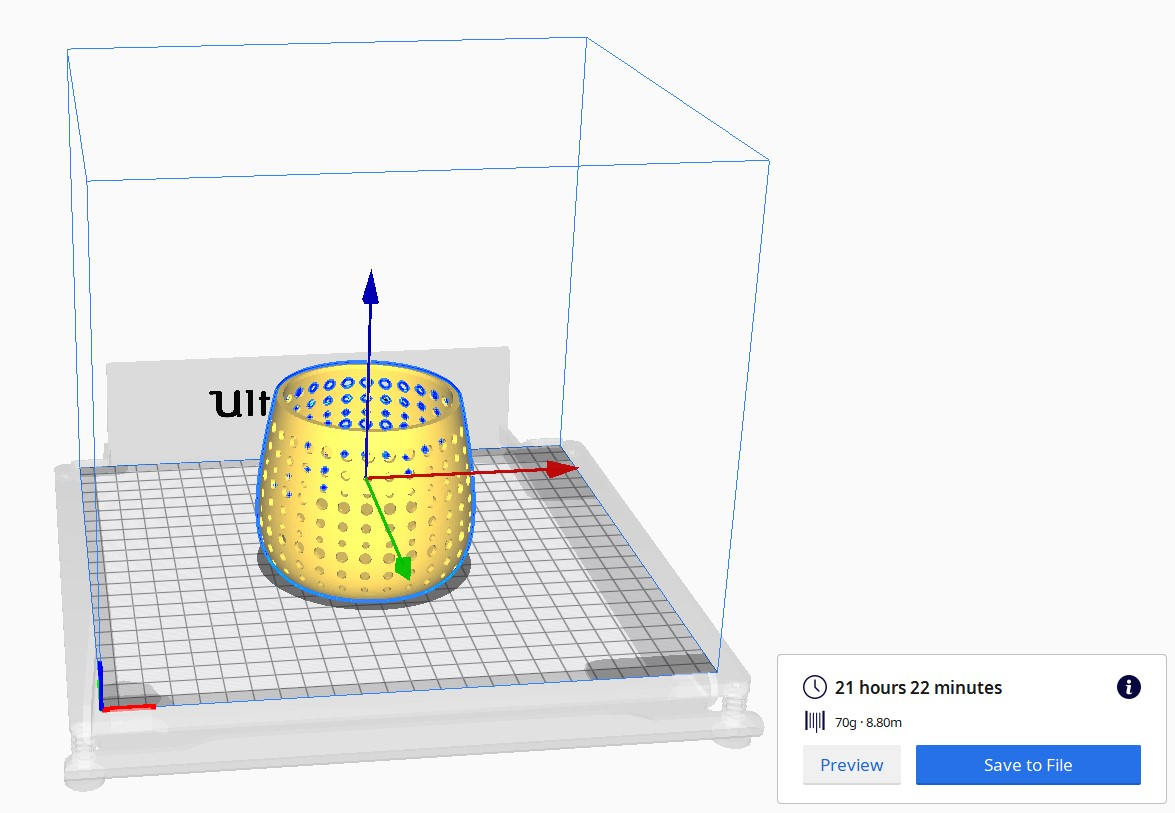
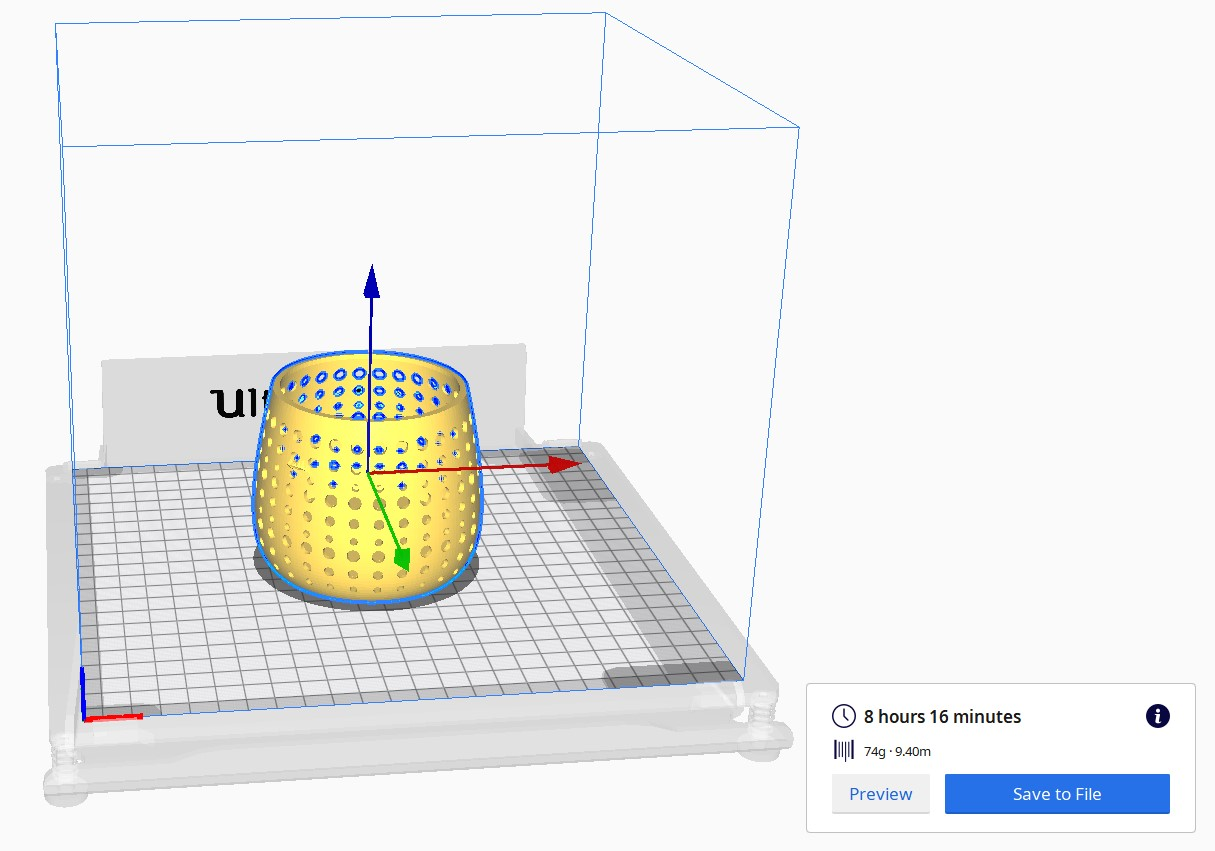
uppfært P1 og P2

diff --git a/EV3.html b/EV3.html
@@ -51,20 +51,22 @@
 							<p>
 							<section>
 								<p>
-                                    The project was two part, one was to design a parametric, pressfit model containing several units. The model has to be resizable, so the material thickness and sizes in the model can be changed using parametric variables. Description of this part can be found her below. The second part is a group project and the goal was to choose a laser cutter and calculates the kerf, this part can be accessed <a href="https://elisaosk.github.io/VefsidanMin/H1.html">here</a>
+                                    The project was two part, one was to design a object that could not be manufactured by subtraction and to 3d print this object. The material provided in the course is a maximum of 100g. As well as that I had to 3d scan an object of my choosing and document the process. Description of this part can be found her below. The second part is a group project and the goal was to test the limits of the 3d printer and make rules regarding its use, this part can be accessed <a href="Hópverkefni 2 (elisaosk.github.io)">here</a>
                                 </p>
 								<header>
 									<h3>Tools</h3>
 								</header>
 								<p>
-                                    For this project I decided to use Fusion 360 and Inkscape. I have previous experience with Fusion as well as Inventor, Autocad and Solidworks. But the deciding factor in this was the instructors recommendation of Fusion for this project. 
-                                </p>
-                                <p>
-                                    Inkscape is a free and open-source vector graphics editor used to create vector images, primarily in Scalable Vector Graphics (SVG) format. Other formats can be imported and exported. Inkscape can render primitive vector shapes (e.g. rectangles, ellipses, polygons, arcs, spirals, stars and 3D boxes) and text. 
+                                    For this project I decided to use Fusion 360, Cura and experimented with Meshmixer. I have previous experience with Fusion as well as Inventor, Autocad and Solidworks. I decided to use Fusion because in project 1 in this course I used Fusion and that went great.
                                 </p>
                                 <p>
                                     Fusion 360 is a cloud-based CAD/CAM tool for collaborative product development. Fusion 360 enables exploration and iteration on product ideas and collaboration within distributed product development team.
                                 </p>
+                                <p>
+                                    Cura is an open source slicing application for 3D printers. I chose this program because my brother recommended it. He has previous experience with 3d printing.
+                                </p>
+                                <p>
+                                    Meshmixer is a state-of-the-art software for working with triangle meshes. I used Meshmixer when i attempted to create an irregular pattern in my design. In the end I went another way but this program has many excellent features to create patterns.
                                 <p>
                                     
      							<header>
@@ -74,22 +76,132 @@
                                     <a href="https://www.autodesk.com/products/fusion-360/overview?term=1-YEAR&support=null" class="button circled scrolly">Fusion 360</a>
                                 </p>
                                 <p>
-                                    <a href="https://inkscape.org/" class="button circled scrolly">Inkscape</a>
+                                    <a href="https://ultimaker.com/software/ultimaker-cura" class="button circled scrolly">Cura</a>
+                                </p>
+                                <p>
+                                    <a href="https://www.meshmixer.com/download.html" class="button circled scrolly">Meshmixer</a>
                                 
                                 <header>
-									<h3>The design</h3>
+									<h3>Design</h3>
 								</header>
                                 <p>
-
+                                    I started by looking at projects from students that have finished this course as well as looking up things to 3d print online. In the end I decided to design and manufacture a small pencil case for my favourite pens. I have a large one that is always stuffed and sometimes I can’t find my favourite pen quickly. This will hopefully encourage me to stop hoarding pens. 
+                                </p>
+                                <p>
+                                    I looked for some ideas for the design online and decided to create a simple case with a pattern. I found the video <a href=" Layer by Layer - How To Make Voronoi Patterns in MeshMixer - YouTube "> Layer by Layer - How To Make Voronoi Patterns in Meshmixer </a> that shows how to use Meshmixer to create patterns on an object. I thought the pattern looked very nice and decided to use Meshmixer.
+                                </p>
+                                <p>
+                                    Now that I had a design in mind I had choose the size of the pensil case. I chose the radius of the bottom, wall height and thickness. Later I changed these parameters because of how long this would take to print. The original parameters can be seen in the picture here below:
+                                </p>
+                                <p>
+                                    <img src="images/v3_parameters1.jpg"> 
+                                </p>
+                                <p>
+                                    By drawing half of the vase and using the command Revolve I created the shape of the vase. The drawing can be seen here below:
+                                </p>
+                                <p>
+                                    <img src="images/v3_vasi_sketch.jpg"> 
+                                </p>
+                                <p>
+                                    And then after using Revolve:
+                                </p>
+                                <p>
+                                    <img src="images/v3_vasi_revolve.jpg"> 
+                                </p>
+                                <p>
+                                    The command Shell is used to hollow out the shape. I chose to have the wall thickness 3mm. To round out the edges of the pencil holder the command Fillet was used. 
+                                </p>
+                                <p>
+                                    <img src="images/v3_vasi_extrude.jpg"> 
+                                </p>
+                                <p>
+                                    To create the pattern in Meshmixer I exported the pencil holder in stl format and opened the file in Meshmixer. I made a couple of different versions of the pencil holder with different patterns, but I was never happy with the result. One example can be seen here below:
+                                </p>
+                                <p>
+                                    <img src="images/v3_vasi_meshmixer.jpg"> 
+                                </p>
+                                <p>
+                                    So I decided to make the pattern in Fusion and not irregular. I drew the pattern on the front plane.
+                                </p>
+                                <p>
+                                    <img src="images/v3_mynstur_sketch.jpg"> 
+                                </p>
+                                <p>
+                                    Then the command Extrude is used to cut from the pencil holder. These holes are then replicated around the middle axis using Circular pattern.
+                                </p>
+                                <p>
+                                    <img src="images/v3_mynstur.jpg">
+                                </p>
+                                <p>
+                                    I was very happy with this result and exported the file in stl format. This file can be opened in Cura and I chose the printer Ultimaker 3. This is the printer I will be using at Fablab. After slicing the object Cura showed that printing this object would take 8 hours and 16 minutes. 
+                                </p>
+                                <p>
+                                    <img src="images/v3_vasi_cura.jpg" width="550" height="400"> 
+                                </p>
+                                <p>
+                                    Because of this I decided to change the radius of the bottom and the wall height. The new parameters can be seen here below:
+                                </p>
+                                <p>
+                                    <img src="images/v3_parameters.jpg"> 
+                                </p>
+                                <p>
+                                    I also changed the shape of the curve and the new drawing can be seen here below:
+                                </p>
+                                <p>
+                                    <img src="images/v3_vasi_sketch1.jpg">
+                                </p>
+                                <p>
+                                    The final design is:
+                                </p>
+                                <p>
+                                    <img src="images/v3_loka.jpg">
+                                </p>
+                                <p>
+                                    Then the file is exported and opened in Cura. The printing will take 5 hours and 2 minutes
+                                </p>
+                                <p>
+                                    <img src="images/v3_vasi_cura1.jpg" width="550" height="400">
+                                </p>
+                        
 								<header>
 									<h3>Production</h3>
 								</header>
                                 <p>
+                                    I was using a 3d printer called Ultimaker 3. To start printing the pencil holder I opened the file in Cura and plugged a USB drive from the 3d printer in my computer. The option to move files to the USB drive appears and that is what I do. When the USB drive is plugged into the 3d printer you can choose to print the latest file by simply pressing enter.
+                                </p>
+                                <p>
+                                    The printer takes a couple of minutes to warm up and then starts printing.
+                                </p>
+                                <p>
+                                    <img src="images/v3_prenta.jpg" width="500" height="700">
+                                </p>
+                                
+								<header>
+									<h3>Result</h3>
+								</header>
+                                <p>
+                                    I was very happy with the result. Although the pencil holder was smaller than I thought it would be. But I think that is mostly because it looks a lot bigger in Fusion. But the size was suitable for its purpose.
+                                </p>
+                                <p>
+                                    <img src="images/v3_loka1.jpg" width="500" height="700">
+                                </p>
+                                <p>
+                                    <img src="images/v3_loka2.jpg" width="500" height="700">
+                                </p>
+                                <p>
                                     
+                                </p>
+                                <p>
+                                    
+                                </p>
+                                <p>
+                                    
+                                </p>
+                                <p>
                                     
 								<header>
 									<h3>Search engine keywords</h3>
-                                    HTML5, HTML5 up, Github, Git
+                                    3d printing ideas, 3d Printed vase, 3d printing patterns, Meshmixer, Meshmixer patterns, Fusion shell
 								</header>
 								<p>
 

diff --git a/EV2.html b/EV2.html
@@ -48,13 +48,13 @@
 					<div class="container">
 						<article id="main" class="special">
 							<p>
-							<section>
 								<p>
                                     The project was two part, one was to design a parametric, pressfit model containing several units. The model has to be resizable, so the material thickness and sizes in the model can be changed using parametric variables. Description of this part can be found her below. The second part is a group project and the goal was to choose a laser cutter and calculates the kerf, this part can be accessed <a href="https://elisaosk.github.io/VefsidanMin/H1.html">here</a>
-                                </p>
+                            <section>
 								<header>
 									<h3>Tools</h3>
 								</header>
+                                
 								<p>
                                     For this project I decided to use Fusion 360 and Inkscape. I have previous experience with Fusion as well as Inventor, Autocad and Solidworks. But the deciding factor in this was the instructors recommendation of Fusion for this project. 
                                 </p>
@@ -76,7 +76,7 @@
                                     <a href="https://inkscape.org/" class="button circled scrolly">Inkscape</a>
                                 
                                 <header>
-									<h3>The design</h3>
+									<h3>Design</h3>
 								</header>
                                 <p>
                                     I wanted to create something that I could use at home. At first I thought a bookstand or maybe a laptop stand but in the end I decided to make a dog bowl stand. My dog recently had hip surgery and has been on my mind a lot lately.  I hope this will increase his quality of life as well as stop him from throwing all his food on the floor.
